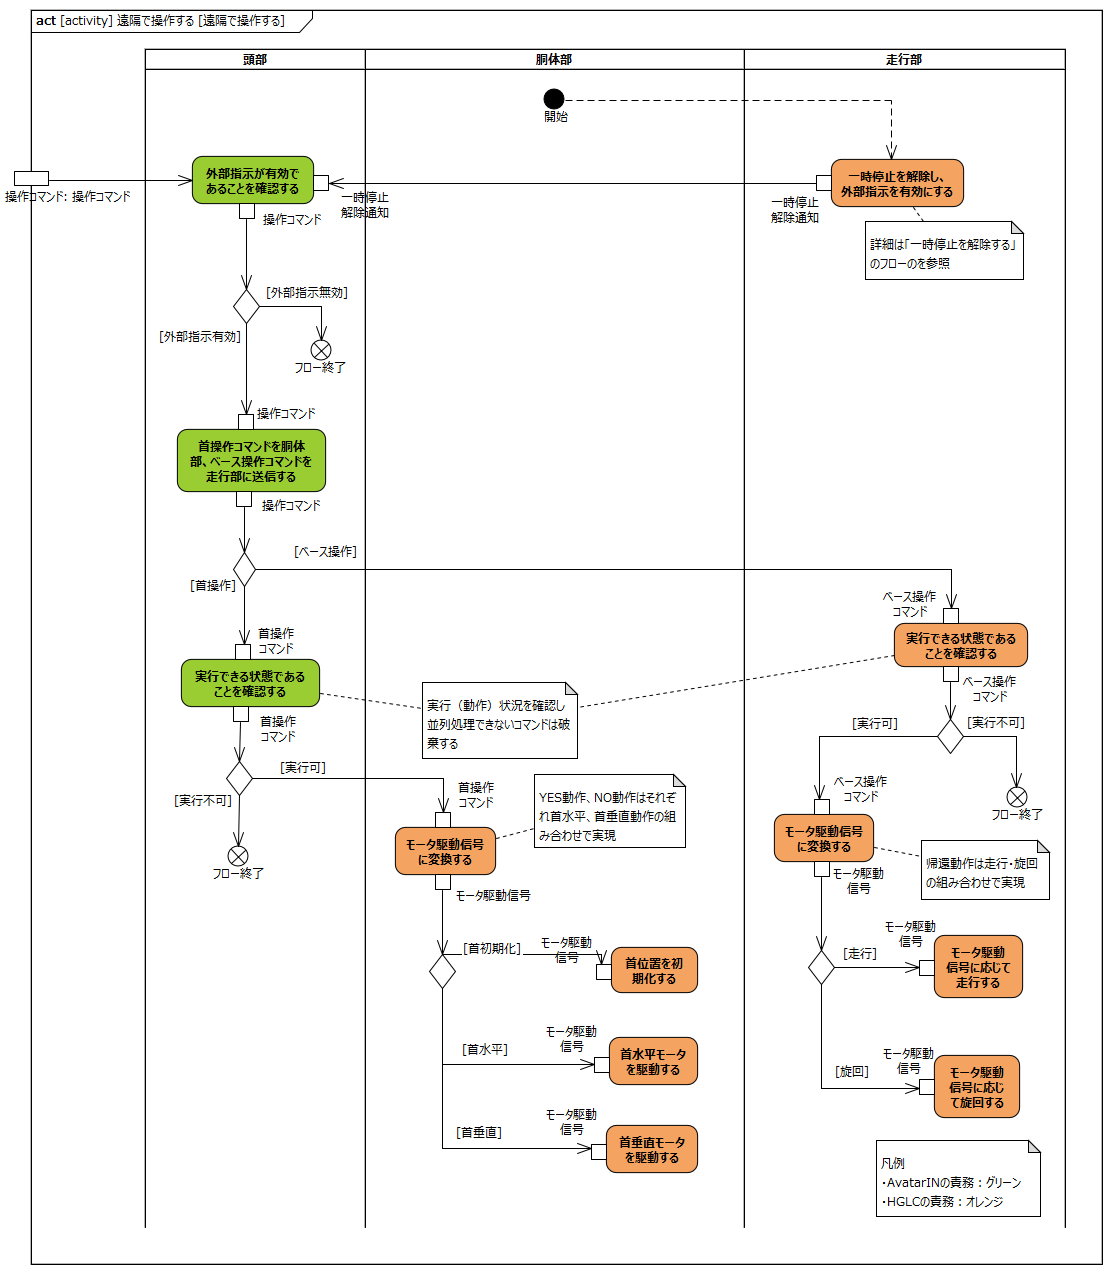
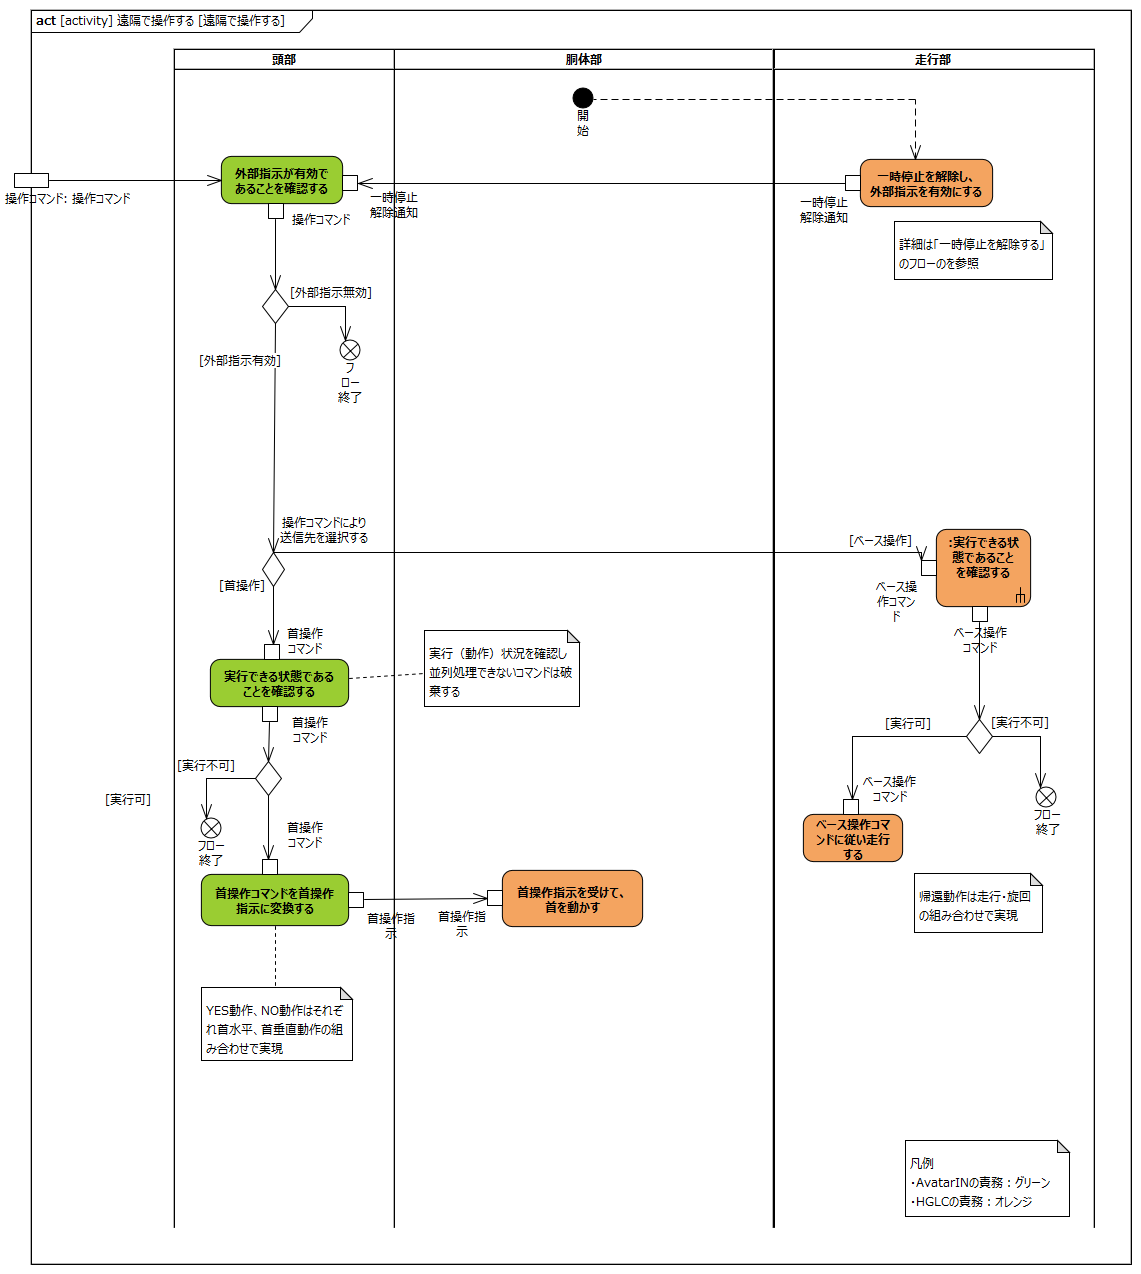
L2分析結果の反映 （L2分析内容ではなく、L2分析の結果、L1よりも上位の内容に修正が生じたものを反映） 変更点 ・遠隔で操作するの要求（アクティビティ図も変更） ・操作コマンドの概念クラス（帰還指示キャンセルコマンド追加。首位置初期化指示コマンドは首水平動作、首垂直動作に依存することを明示）

diff --git a/requirements/requirement.md b/requirements/requirement.md
@@ -970,8 +970,9 @@
 
 操作コマンドの概念モデルを以下に記載する。操作コマンドにはロボットのベースを制御するためのコマンドと首を制御するためのコマンドがある。
 
-ベース操作コマンドには走行コマンドと旋回コマンド、帰還指示コマンドがある。帰還指示コマンドは走行、旋回のコマンドに依存する。
-首操作コマンドには首位置初期化コマンドと首水平動作コマンド、首垂直動作コマンドがある、YES動作コマンド、NO動作コマンドがある。
+ベース操作コマンドには走行コマンド、旋回コマンド、帰還指示コマンドと帰還指示キャンセルコマンドがある。<br/>帰還指示コマンドは走行、旋回のコマンドに依存する。<br/>帰還指示キャンセルコマンドはドッキング動作を中止するコマンドである。<br/>
+
+首操作コマンドには首位置初期化コマンド、首水平動作コマンド、首垂直動作コマンド、YES動作コマンド、NO動作コマンドがある。<br/>首位置初期化コマンドは首水平動作、首垂直動作のコマンドに依存する。<br/>
 YES動作コマンドは首垂直動作に依存し、NO動作コマンドは首水平動作に依存する。
 
 ![](.images/conceptual/control_command.png)
@@ -998,20 +999,15 @@ YES動作コマンドは首垂直動作に依存し、NO動作コマンドは首
 |:---|:---|
 |頭部は外部指示が有効であることを確認する||
 |頭部は外部指示が無効の場合は操作コマンドを破棄する||
-|頭部は首操作コマンドを胴体部に、ベース操作コマンドを走行部に送信する||
+|頭部は操作コマンドがベース操作コマンドの場合、ベース操作コマンドを走行部に送信する||
 |頭部は首操作コマンドを実行できる状態であることを確認する||
-|胴体部は首操作コマンドをモータ駆動信号に変換する||
-|胴体部はモータ駆動信号（初期化）により首位置をリセットする||
-|胴体部はモータ駆動信号（水平動作）により首を指定された角度で水平に動かす||
-|胴体部はモータ駆動信号（垂直動作）により首を指定された角度で垂直に動かす||
-|胴体部はYES動作コマンドをモータ駆動信号に変換し首を上下に2回動かす||
-|胴体部はNO動作コマンドをモータ駆動信号に変換し首を左右に2回動かす||
+|頭部は首操作コマンドを実行できる状態でなければ、首操作コマンドを破棄する||
+|頭部は首操作コマンドを首操作指示に変換する|・首操作指示：首操作指示コマンドを現在水平モータ角度、現在垂直モータ角度に展開したもの|
+|胴体部は首操作指示を受けて、首を動かす||
 |走行部は一時停止を解除し外部指示を有効であることを頭部に通知する||
 |走行部はベース操作コマンドを実行できる状態であることを確認する||
-|走行部はベース操作コマンド（走行、旋回）をモータ駆動信号に変換する||
-|走行部はモータ駆動信号（走行）により前後に走行する||
-|走行部はモータ駆動信号（旋回）により左右に旋回する||
-|走行部は帰還指示コマンドにより、走行動作、旋回動作を組み合わせ充電ステーションにドッキングする||
+|走行部はベース操作コマンドに従い走行する||
+
 
  <div style="page-break-before:always"></div>
 
